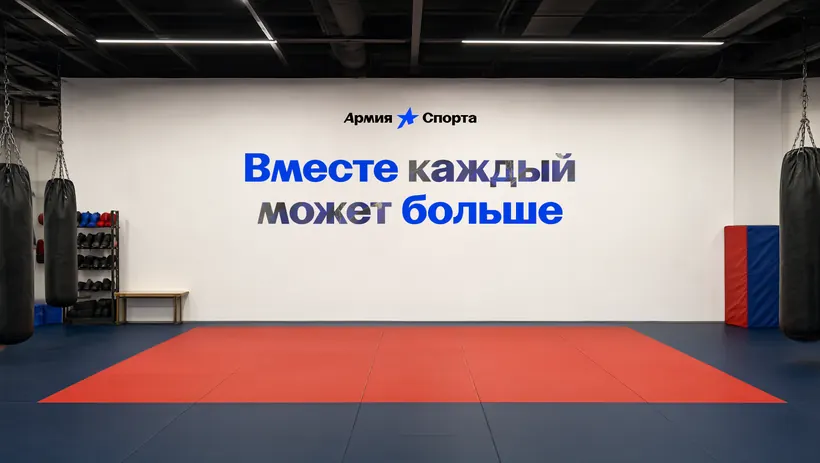
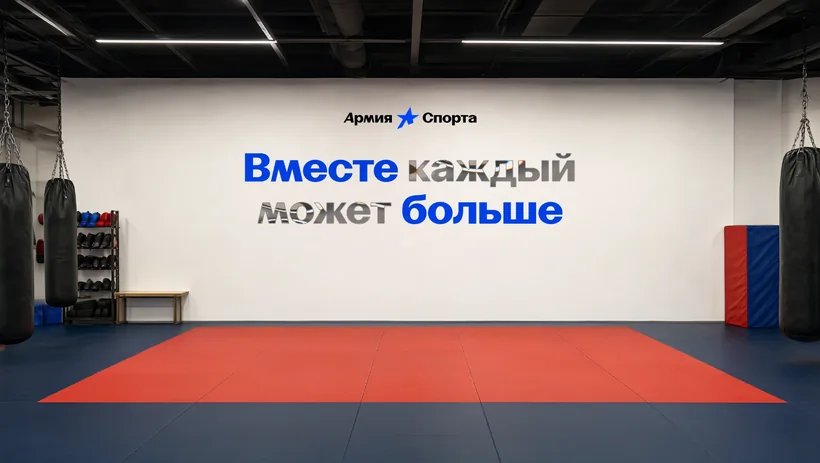
Стены и фотозоны рассвета — экспорты из Фигмы с эффектами; подпись «черновые концепты»

Changed region(s): [[0.4878, 0.3326, 0.7012, 0.3931], [0.3049, 0.4233, 0.4878, 0.4838]]

diff --git a/as.js b/as.js
@@ -14,7 +14,7 @@
   root.setAttribute('lang', 'ru');
 
   // пропорции картинок — место занято сразу, страница не прыгает (заполняет build.py)
-  var R = /*RATIOS*/{"c1-art-a":1.7752,"c1-art-b":1.777,"c1-art-c":1.7801,"c1-award-man":1.7778,"c1-award-row":2.5862,"c1-award-stack":0.9992,"c1-co":0.7456,"c1-coin-a":1.4684,"c1-coin-b":1.4684,"c1-coin-side":1.0034,"c1-coin":1.0,"c1-dark-2":2.9049,"c1-dark-h":7.932,"c1-dark-mid":7.8027,"c1-dark-v":0.7475,"c1-desc-2":5.2016,"c1-desc-2b":1.964,"c1-desc-h":10.8435,"c1-desc-v":0.6534,"c1-fighter":1.0,"c1-font":2.6762,"c1-icon":1.0,"c1-keys-a":1.0,"c1-keys-b":1.7769,"c1-keys-flat":1.5598,"c1-labels":3.334,"c1-logo-2":2.9049,"c1-logo-h":7.932,"c1-logo-mid":7.8027,"c1-logo-v":0.7475,"c1-mono-2":2.9049,"c1-mono-h":7.932,"c1-mono-mid":7.8027,"c1-mono-v":0.7551,"c1-over":1.6,"c1-polo-a":0.7998,"c1-polo-b":0.8005,"c1-polo-c":1.0678,"c1-slides-2":1.0,"c1-slides":1.0,"c1-tee-back":0.7998,"c1-tee-front":0.7998,"c1-under":1.6,"c1-wall-a":1.7778,"c1-wall-b":1.7778,"c1-wear-a":1.0,"c1-wear-b":1.0,"c1-wear-c":1.0008,"c2-award-man":1.7778,"c2-award-row":2.5862,"c2-award-stack":1.075,"c2-co":0.9138,"c2-coin-a":0.9174,"c2-coin-b":0.9174,"c2-coin-c":0.9174,"c2-coin":1.0,"c2-font":3.6588,"c2-icon":1.0,"c2-keys-a":1.0,"c2-keys-b":0.9992,"c2-keys-flat":1.5598,"c2-logo-2":3.1256,"c2-logo-h":5.8524,"c2-logo-top":2.5947,"c2-logo-v":0.9142,"c2-mirror-a":0.9609,"c2-mirror-b":0.9593,"c2-mono-2":3.1256,"c2-mono-h":5.8524,"c2-mono-top":2.5947,"c2-mono-v":0.9142,"c2-over":1.6,"c2-poster-a":0.9984,"c2-poster-b":1.0016,"c2-poster-c":1.0,"c2-poster-d":1.0016,"c2-poster-e":1.0016,"c2-slides-2":1.0,"c2-slides":1.0,"c2-star":1.0228,"c2-tee-b":0.7504,"c2-under":1.6,"c2-wall":1.772,"c2-wear-a":1.0,"c2-wear-b":1.0,"c2-wear-c":1.0,"c2-wear-d":1.0,"c3-co":1.9478,"c3-icon":1.0,"c3-logo-2":1.9469,"c3-logo-h":8.5786,"c3-over":1.6,"c3-tee-back":0.7998,"c3-tee-front":0.7998,"c3-under":1.6,"key1":1.0,"key2":1.0,"key3":1.0,"key4":0.327,"key5":0.3793,"key6":0.3793,"key7":2.2143,"old-logo":1.0,"old-site":1.7181,"old-story":0.5619,"old-tg":1.526,"old-vk":1.4671,"old-yt":1.6994,"p-cska-fight":0.5972,"p-cska":0.6731,"p-dynamo":0.655,"p-fsbr":1.8599,"p-sa":1.2579,"promo":1.7778}/*/RATIOS*/;
+  var R = /*RATIOS*/{"c1-art-a":1.7752,"c1-art-b":1.777,"c1-art-c":1.7801,"c1-award-man":1.7778,"c1-award-row":2.5862,"c1-award-stack":0.9992,"c1-co":0.7456,"c1-coin-a":1.4684,"c1-coin-b":1.4684,"c1-coin-side":1.0034,"c1-coin":1.0,"c1-dark-2":2.9049,"c1-dark-h":7.932,"c1-dark-mid":7.8027,"c1-dark-v":0.7475,"c1-desc-2":5.2016,"c1-desc-2b":1.964,"c1-desc-h":10.8435,"c1-desc-v":0.6534,"c1-fighter":1.0,"c1-font":2.6762,"c1-icon":1.0,"c1-keys-a":1.0,"c1-keys-b":1.7769,"c1-keys-flat":1.5598,"c1-labels":3.334,"c1-logo-2":2.9049,"c1-logo-h":7.932,"c1-logo-mid":7.8027,"c1-logo-v":0.7475,"c1-mono-2":2.9049,"c1-mono-h":7.932,"c1-mono-mid":7.8027,"c1-mono-v":0.7551,"c1-over":1.6,"c1-polo-a":0.7998,"c1-polo-b":0.8005,"c1-polo-c":1.0678,"c1-slides-2":1.0,"c1-slides":1.0,"c1-tee-back":0.7998,"c1-tee-front":0.7998,"c1-under":1.6,"c1-wall-a":1.7778,"c1-wall-b":1.7778,"c1-wear-a":1.0,"c1-wear-b":1.0,"c1-wear-c":1.0008,"c2-award-man":1.7778,"c2-award-row":2.5862,"c2-award-stack":1.075,"c2-co":0.9138,"c2-coin-a":0.9174,"c2-coin-b":0.9174,"c2-coin-c":0.9174,"c2-coin":1.0,"c2-font":3.6588,"c2-icon":1.0,"c2-keys-a":1.0,"c2-keys-b":0.9992,"c2-keys-flat":1.5598,"c2-logo-2":3.1256,"c2-logo-h":5.8524,"c2-logo-top":2.5947,"c2-logo-v":0.9142,"c2-mirror-a":0.96,"c2-mirror-b":0.96,"c2-mono-2":3.1256,"c2-mono-h":5.8524,"c2-mono-top":2.5947,"c2-mono-v":0.9142,"c2-over":1.6,"c2-poster-a":1.0,"c2-poster-b":1.0,"c2-poster-c":1.0,"c2-poster-d":1.0,"c2-poster-e":1.0016,"c2-slides-2":1.0,"c2-slides":1.0,"c2-star":1.0228,"c2-tee-b":0.7504,"c2-under":1.6,"c2-wall":1.7717,"c2-wear-a":1.0,"c2-wear-b":1.0,"c2-wear-c":1.0,"c2-wear-d":1.0,"c3-co":1.9478,"c3-icon":1.0,"c3-logo-2":1.9469,"c3-logo-h":8.5786,"c3-over":1.6,"c3-tee-back":0.7998,"c3-tee-front":0.7998,"c3-under":1.6,"key1":1.0,"key2":1.0,"key3":1.0,"key4":0.327,"key5":0.3793,"key6":0.3793,"key7":2.2143,"old-logo":1.0,"old-site":1.7181,"old-story":0.5619,"old-tg":1.526,"old-vk":1.4671,"old-yt":1.6994,"p-cska-fight":0.5972,"p-cska":0.6731,"p-dynamo":0.655,"p-fsbr":1.8599,"p-sa":1.2579,"promo":1.7778}/*/RATIOS*/;
 
   // ---------- типограф: короткие слова держатся за следующим, тире — за предыдущим ----------
   function nb(t) {
@@ -243,7 +243,7 @@
   h.push(sec('c2-site', 'первый экран сайта', ['Рассвет на весь экран, ролик — внутри звезды.'], site('c2')));
   h.push(sec('c2-coin', 'в спорте есть место каждому', ['На лицевой стороне — руки спортсменов, которые держат друг друга. На обороте — зеркальный знак: в нем каждый видит себя. Зеркало играет на серебре, золотая версия — опционально. Название — на гурте.'],
     pair3d('coin_mirror', 'c2-coin-a', '20deg 80deg auto', focus(['c2-coin-a', 'c2-coin-b', 'c2-coin-c']) + ph('c2-coin', { cls: 'contain soft', zoom: false }), true)));
-  h.push(sec('c2-wall', 'каждый может больше', ['В зале — зеркала со знаком: человек видит себя и понимает, что речь о нем. Зеркало показывает каждого без отбора и само становится фотозоной. Стены можно собирать из динамичных паттернов и совмещать их с серебром и зеркалом — это черновые эскизы.'],
+  h.push(sec('c2-wall', 'каждый может больше', ['В зале — зеркала со знаком: человек видит себя и понимает, что речь о нем. Зеркало показывает каждого без отбора и само становится фотозоной.', '**Это черновые концепты.** Стены можно собирать из динамичных паттернов и совмещать их с серебром и зеркалом.'],
     '<div class="as-col">' + '<div class="s12">' + mirror(ph('c2-wall')) + '</div>' +
     ['c2-poster-e', 'c2-poster-c', 'c2-poster-d'].map(function (p) { return '<div class="s4">' + mirror(ph(p)) + '</div>'; }).join('') +
     ['c2-poster-a', 'c2-poster-b'].map(function (p) { return '<div class="s6">' + mirror(ph(p)) + '</div>'; }).join('') +
